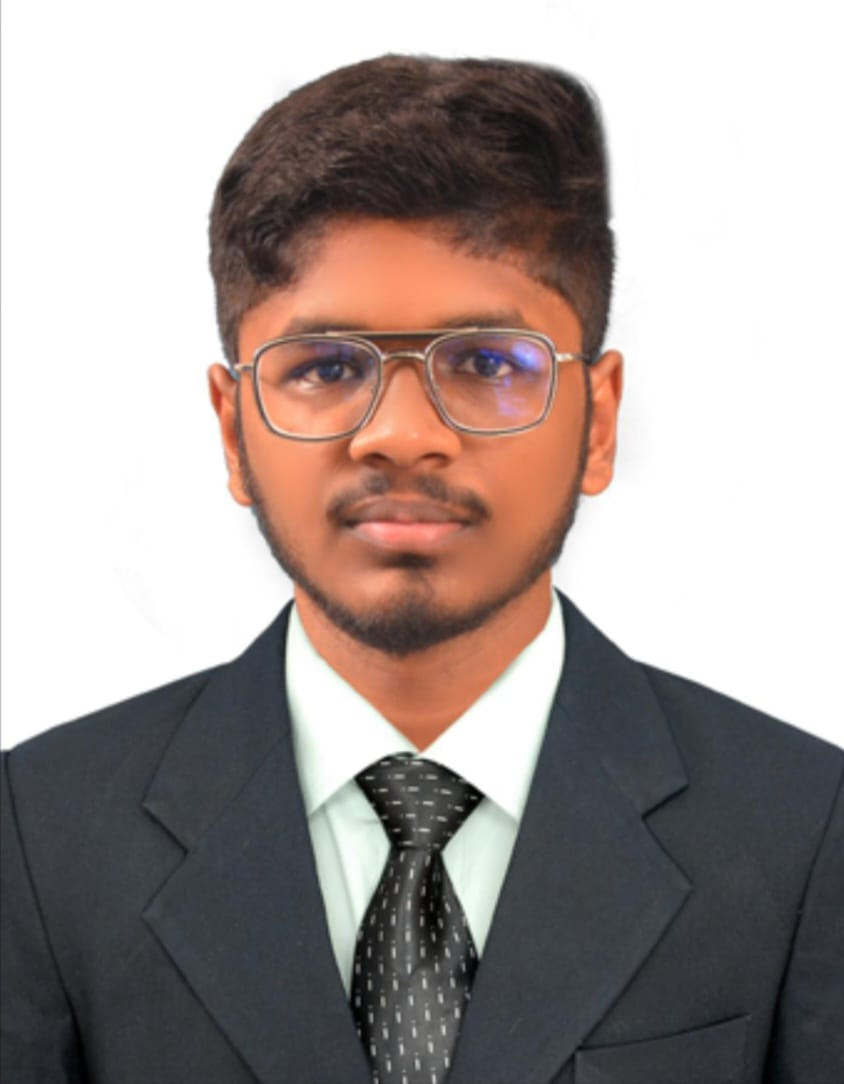
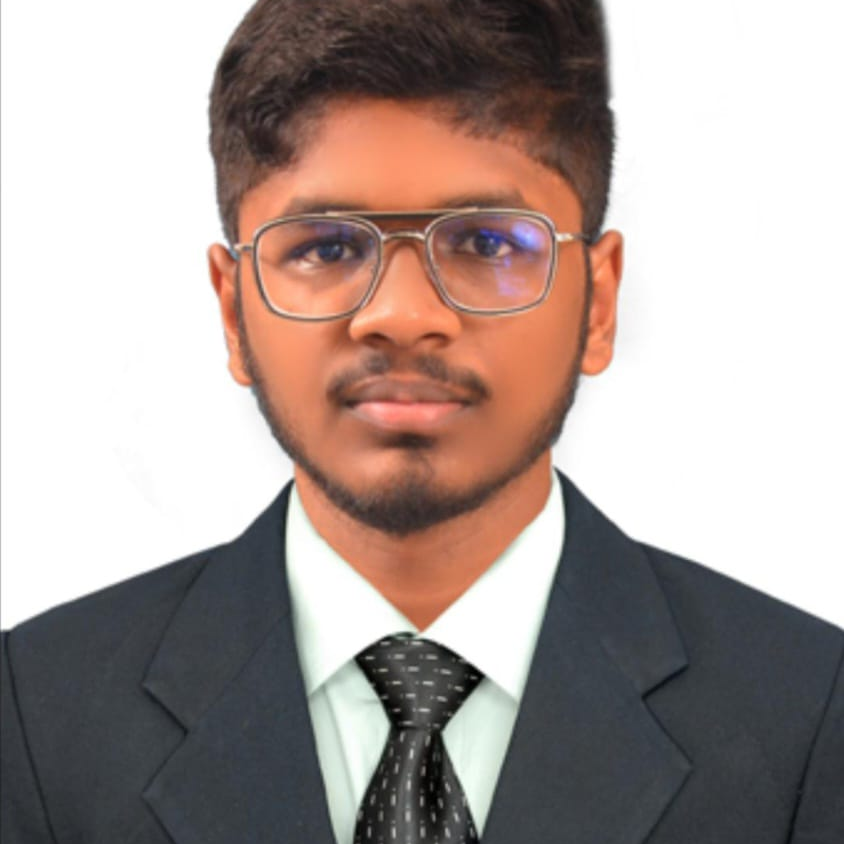
Add files via upload

diff --git a/style.css b/style.css
@@ -2135,3 +2135,181 @@ summary svg {
     margin:10px auto 40px;
     line-height:1.7;
 }
+/* ═══ Premium Intro Loader ═══════════════════════════════════ */
+
+html.intro-active,
+html.intro-active body {
+    overflow: hidden;
+    height: 100%;
+}
+
+.intro-loader {
+    position: fixed;
+    inset: 0;
+    z-index: 5000;
+    display: flex;
+    align-items: center;
+    justify-content: center;
+    background: radial-gradient(circle at 50% 40%, rgba(60, 0, 255, 0.12), transparent 60%),
+                rgba(6, 9, 19, 0.92);
+    backdrop-filter: blur(22px);
+    -webkit-backdrop-filter: blur(22px);
+    transition: opacity 0.7s ease, visibility 0.7s ease;
+    overflow: hidden;
+}
+
+.intro-loader.fade-out {
+    opacity: 0;
+    visibility: hidden;
+    pointer-events: none;
+}
+
+/* Floating particles inside loader */
+.intro-particles {
+    position: absolute;
+    inset: 0;
+    z-index: 0;
+    overflow: hidden;
+}
+
+.intro-particle {
+    position: absolute;
+    width: 3px;
+    height: 3px;
+    border-radius: 50%;
+    background: var(--accent-blue-deep, #3b82f6);
+    opacity: 0.5;
+    animation: introFloat linear infinite;
+    will-change: transform;
+}
+
+@keyframes introFloat {
+    from { transform: translateY(10vh) translateZ(0); }
+    to   { transform: translateY(-110vh) translateZ(0); }
+}
+
+/* Content wrapper */
+.intro-content {
+    position: relative;
+    z-index: 1;
+    display: flex;
+    flex-direction: column;
+    align-items: center;
+    gap: 18px;
+    padding: 20px;
+    text-align: center;
+}
+
+/* Name — handwriting draw-on SVG */
+.intro-name-svg {
+    width: min(80vw, 420px);
+    height: 130px;
+    overflow: visible;
+    filter: drop-shadow(0 0 18px rgba(59, 130, 246, 0.55))
+            drop-shadow(0 0 36px rgba(60, 0, 255, 0.35));
+    animation: introGlowPulse 2.4s ease-in-out infinite;
+}
+
+.intro-name-text {
+    font-family: 'Brush Script MT', 'Segoe Script', cursive;
+    font-size: 4.2rem;
+    fill: none;
+    stroke: #ffffff;
+    stroke-width: 1.4;
+    stroke-linecap: round;
+    stroke-linejoin: round;
+    stroke-dasharray: 600;
+    stroke-dashoffset: 600;
+    animation: introHandwrite 1.3s ease forwards 0.15s,
+               introFillIn 0.6s ease forwards 1.35s;
+}
+
+@keyframes introHandwrite {
+    to { stroke-dashoffset: 0; }
+}
+
+@keyframes introFillIn {
+    to { fill: #ffffff; }
+}
+
+@keyframes introGlowPulse {
+    0%, 100% {
+        filter: drop-shadow(0 0 14px rgba(59, 130, 246, 0.45))
+                drop-shadow(0 0 28px rgba(60, 0, 255, 0.28));
+    }
+    50% {
+        filter: drop-shadow(0 0 24px rgba(59, 130, 246, 0.75))
+                drop-shadow(0 0 46px rgba(60, 0, 255, 0.45));
+    }
+}
+
+/* Tagline */
+.intro-tagline {
+    font-size: 0.95rem;
+    font-weight: 500;
+    letter-spacing: 0.3px;
+    color: var(--text-secondary, #cbd5e1);
+    max-width: 380px;
+    opacity: 0;
+    transform: translateY(8px);
+    animation: introTaglineIn 0.8s ease forwards 1.55s;
+}
+
+@keyframes introTaglineIn {
+    to { opacity: 1; transform: translateY(0); }
+}
+
+/* Loading bar */
+.intro-loadbar-wrap {
+    display: flex;
+    align-items: center;
+    gap: 12px;
+    width: min(70vw, 260px);
+    opacity: 0;
+    animation: introTaglineIn 0.6s ease forwards 1.85s;
+}
+
+.intro-loadbar-track {
+    flex: 1;
+    height: 4px;
+    border-radius: 10px;
+    background: rgba(255, 255, 255, 0.08);
+    overflow: hidden;
+}
+
+.intro-loadbar-fill {
+    height: 100%;
+    width: 0%;
+    border-radius: 10px;
+    background: linear-gradient(90deg, var(--accent-blue-deep, #3b82f6), var(--accent-coral, #a75eff));
+    box-shadow: 0 0 12px rgba(59, 130, 246, 0.6);
+    transition: width 0.15s linear;
+    will-change: width;
+}
+
+.intro-loadbar-percent {
+    font-size: 0.75rem;
+    font-weight: 600;
+    color: var(--text-muted, #64658b);
+    min-width: 36px;
+    text-align: right;
+}
+
+/* Site content — blur-to-clear reveal */
+.site-content {
+    filter: blur(14px);
+    opacity: 0;
+    transform: scale(1.01);
+    transition: filter 0.9s ease, opacity 0.9s ease, transform 0.9s ease;
+}
+
+.site-content.revealed {
+    filter: blur(0);
+    opacity: 1;
+    transform: scale(1);
+}
+
+@media (max-width: 480px) {
+    .intro-name-svg { height: 100px; }
+    .intro-name-text { font-size: 3.2rem; }
+}

diff --git a/script.js b/script.js
@@ -1,3 +1,72 @@
+// ═══ Premium Intro Loader ═══════════════════════════════════
+(function () {
+    document.documentElement.classList.add("intro-active");
+
+    const loader  = document.getElementById("introLoader");
+    const fill    = document.getElementById("introLoadFill");
+    const percent = document.getElementById("introLoadPercent");
+    const content = document.getElementById("siteContent");
+    const particlesWrap = document.getElementById("introParticles");
+
+    if (!loader || !content) {
+        // Critical elements missing — don't lock the page, just bail safely
+        document.documentElement.classList.remove("intro-active");
+        if (loader) loader.remove();
+        return;
+    }
+
+    // Floating particles (optional — skip safely if container missing)
+    if (particlesWrap) {
+        for (let i = 0; i < 28; i++) {
+            const p = document.createElement("div");
+            p.className = "intro-particle";
+            p.style.left = Math.random() * 100 + "%";
+            p.style.animationDuration = (Math.random() * 4 + 4) + "s";
+            p.style.animationDelay = (Math.random() * 3) + "s";
+            p.style.opacity = (Math.random() * 0.5 + 0.2).toFixed(2);
+            particlesWrap.appendChild(p);
+        }
+    }
+
+    function finishIntro() {
+        loader.classList.add("fade-out");
+        content.classList.add("revealed");
+        document.documentElement.classList.remove("intro-active");
+        setTimeout(() => loader.remove(), 750);
+    }
+
+    function startBar() {
+        const duration = 1200;
+        let startTime = null;
+
+        function tick(now) {
+            if (!startTime) startTime = now;
+            const elapsed = now - startTime;
+            const progress = Math.min(elapsed / duration, 1);
+            const pct = Math.round(progress * 100);
+
+            if (fill) fill.style.width = pct + "%";
+            if (percent) percent.textContent = pct + "%";
+
+            if (progress < 1) {
+                requestAnimationFrame(tick);
+            } else {
+                finishIntro();
+            }
+        }
+        requestAnimationFrame(tick);
+    }
+
+    // Start the bar after the name/tagline animation has had time to play
+    setTimeout(startBar, 1100);
+
+    // Safety net — guarantees the loader can NEVER hang forever
+    setTimeout(() => {
+        if (document.body.contains(loader) && !loader.classList.contains("fade-out")) {
+            finishIntro();
+        }
+    }, 2800);
+})();
 const roles = [
   "AI & Data Science Student",
   "Python Programmer",

diff --git a/index.html b/index.html
@@ -13,6 +13,28 @@ rel="stylesheet">
 </head>
 
 <body>
+<!-- ═══ Premium Intro Loader ═══════════════════════════════════ -->
+<div id="introLoader" class="intro-loader">
+    <div class="intro-particles" id="introParticles"></div>
+
+    <div class="intro-content">
+        <svg class="intro-name-svg" viewBox="0 0 500 160" xmlns="http://www.w3.org/2000/svg">
+            <text x="50%" y="58%" text-anchor="middle" class="intro-name-text">Kishore</text>
+        </svg>
+
+        <p class="intro-tagline" id="introTagline">
+            Developed with precision, structure, and a strong professional identity.
+        </p>
+
+        <div class="intro-loadbar-wrap">
+            <div class="intro-loadbar-track">
+                <div class="intro-loadbar-fill" id="introLoadFill"></div>
+            </div>
+            <span class="intro-loadbar-percent" id="introLoadPercent">0%</span>
+        </div>
+    </div>
+</div>
+<div id="siteContent" class="site-content">
 <nav class="navbar">
 
     <div class="logo">  
@@ -667,6 +689,8 @@ rel="stylesheet">
     <p>Artificial Intelligence & Data Science Student</p>
     <p>Built with HTML, CSS & JavaScript</p>
 </footer>
+</div>
+<script src="script.js"></script>
 <script src="script.js"></script>   
 </body>
 </html>
